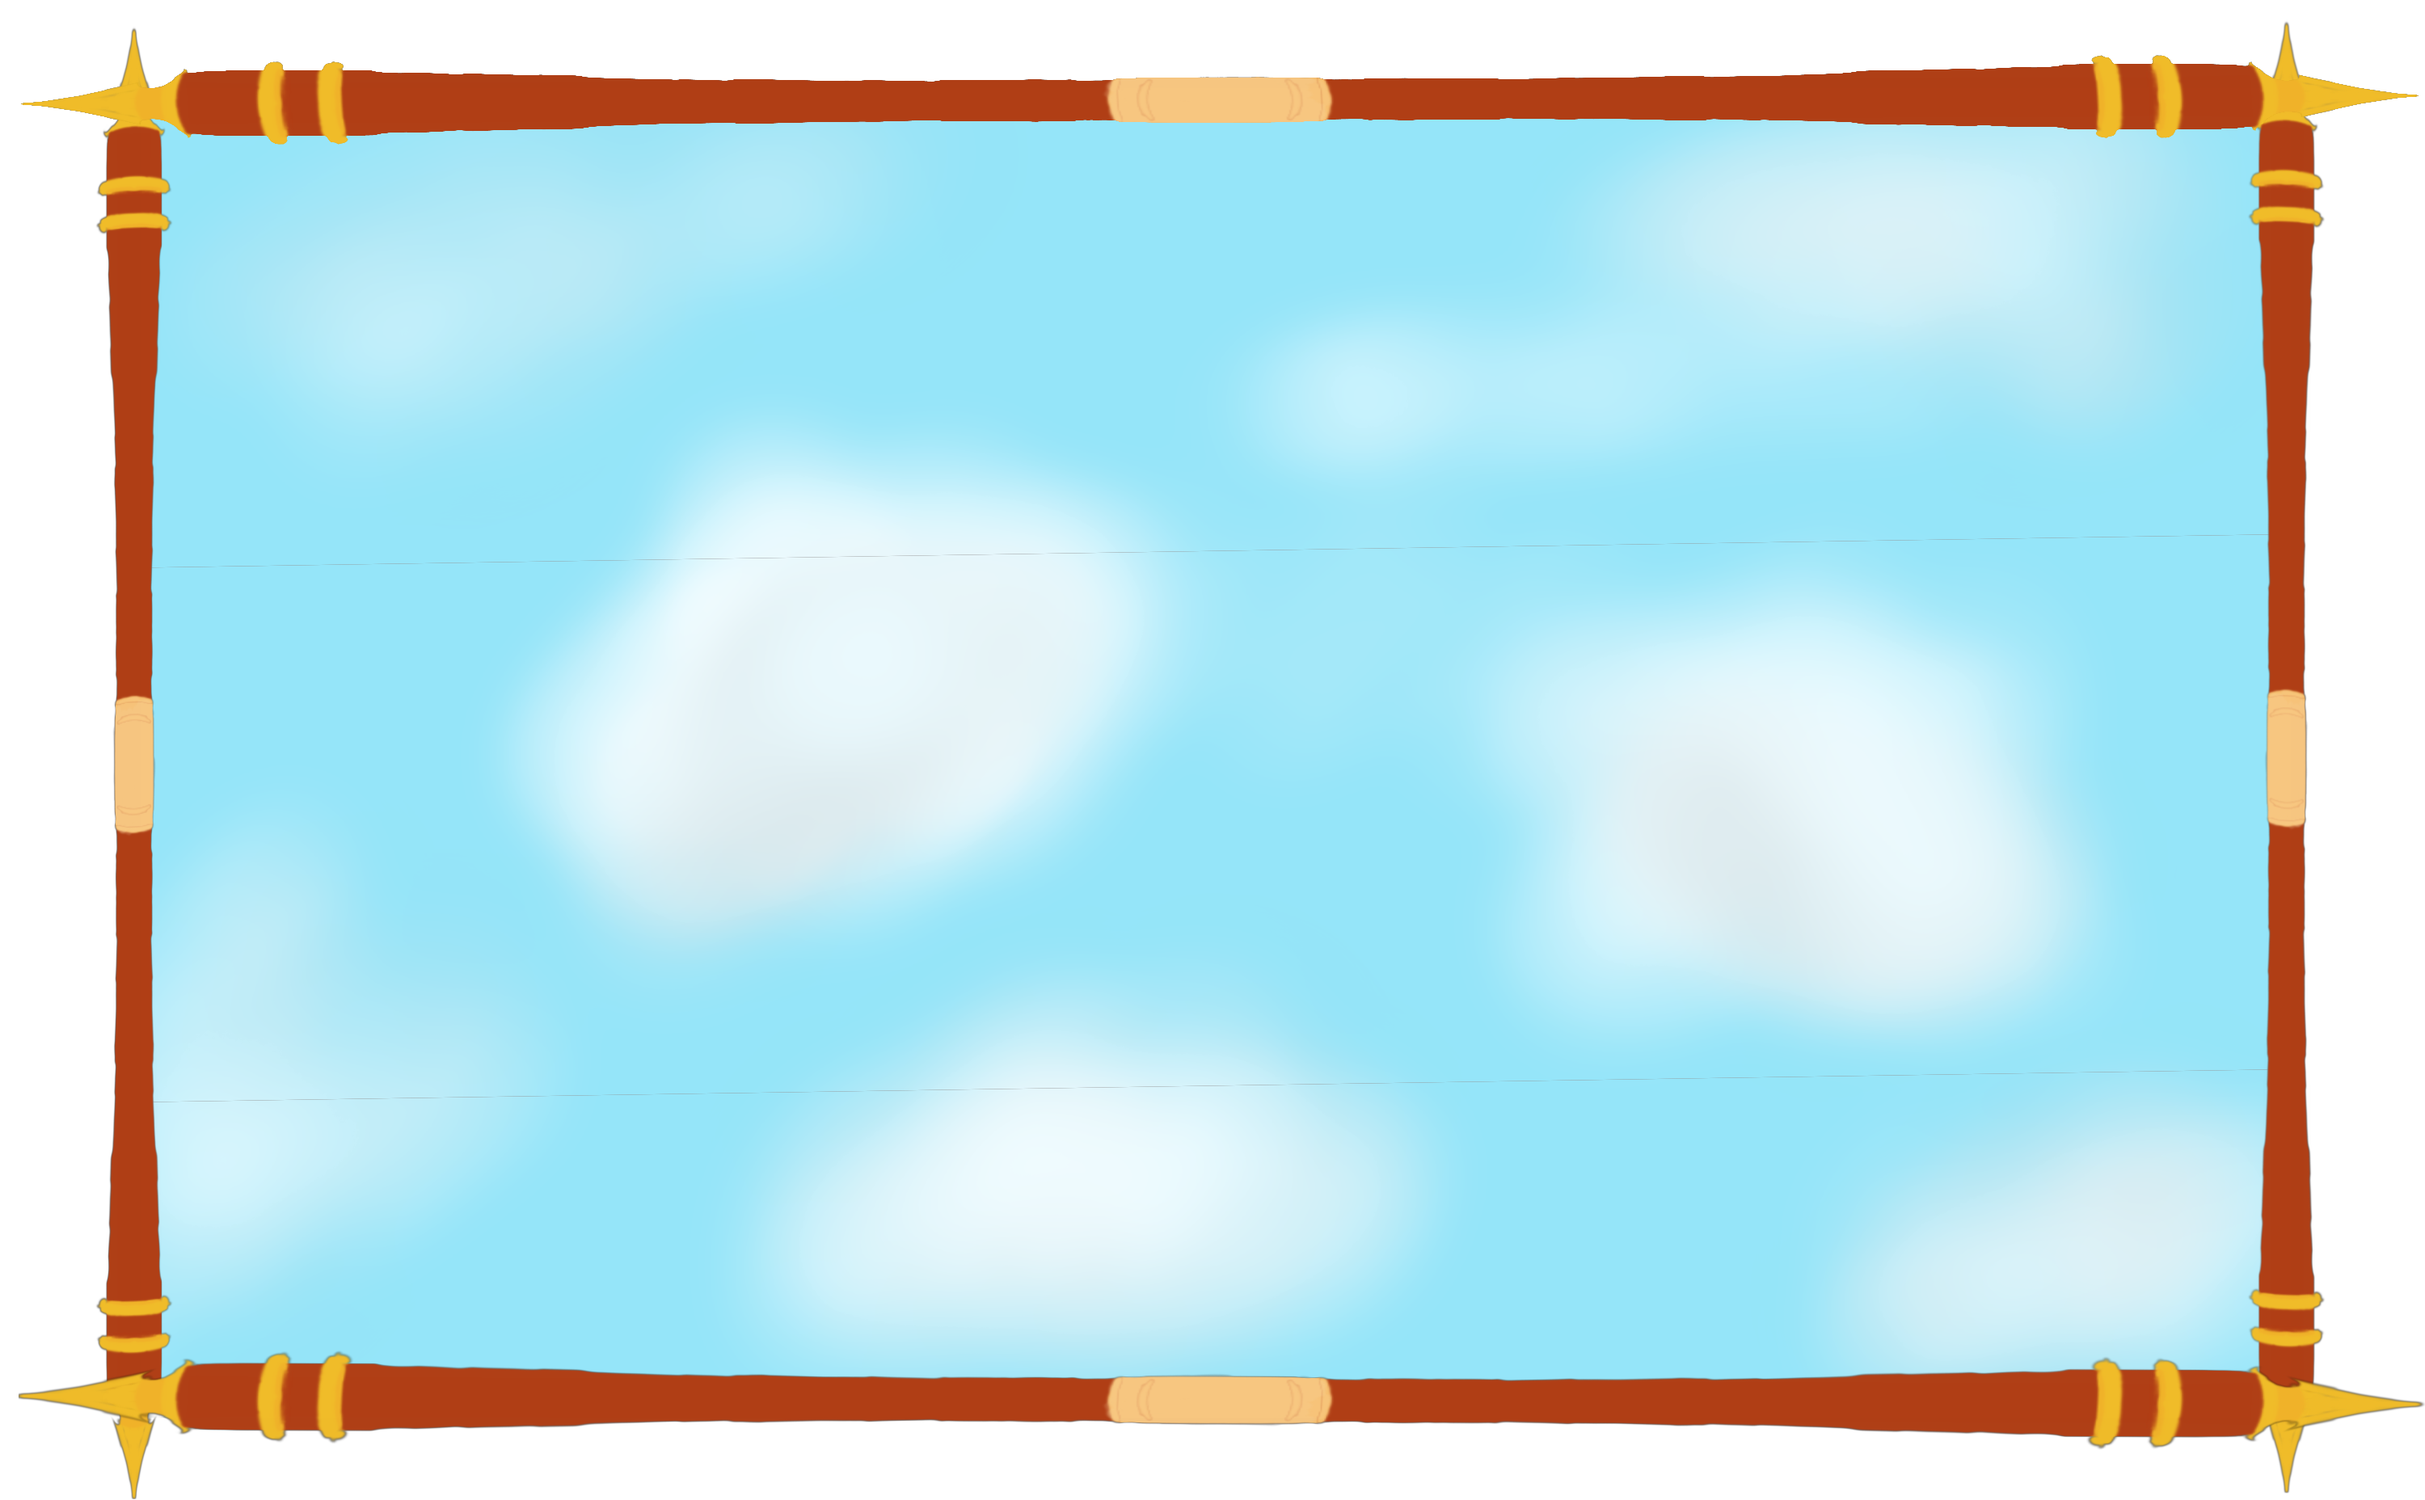
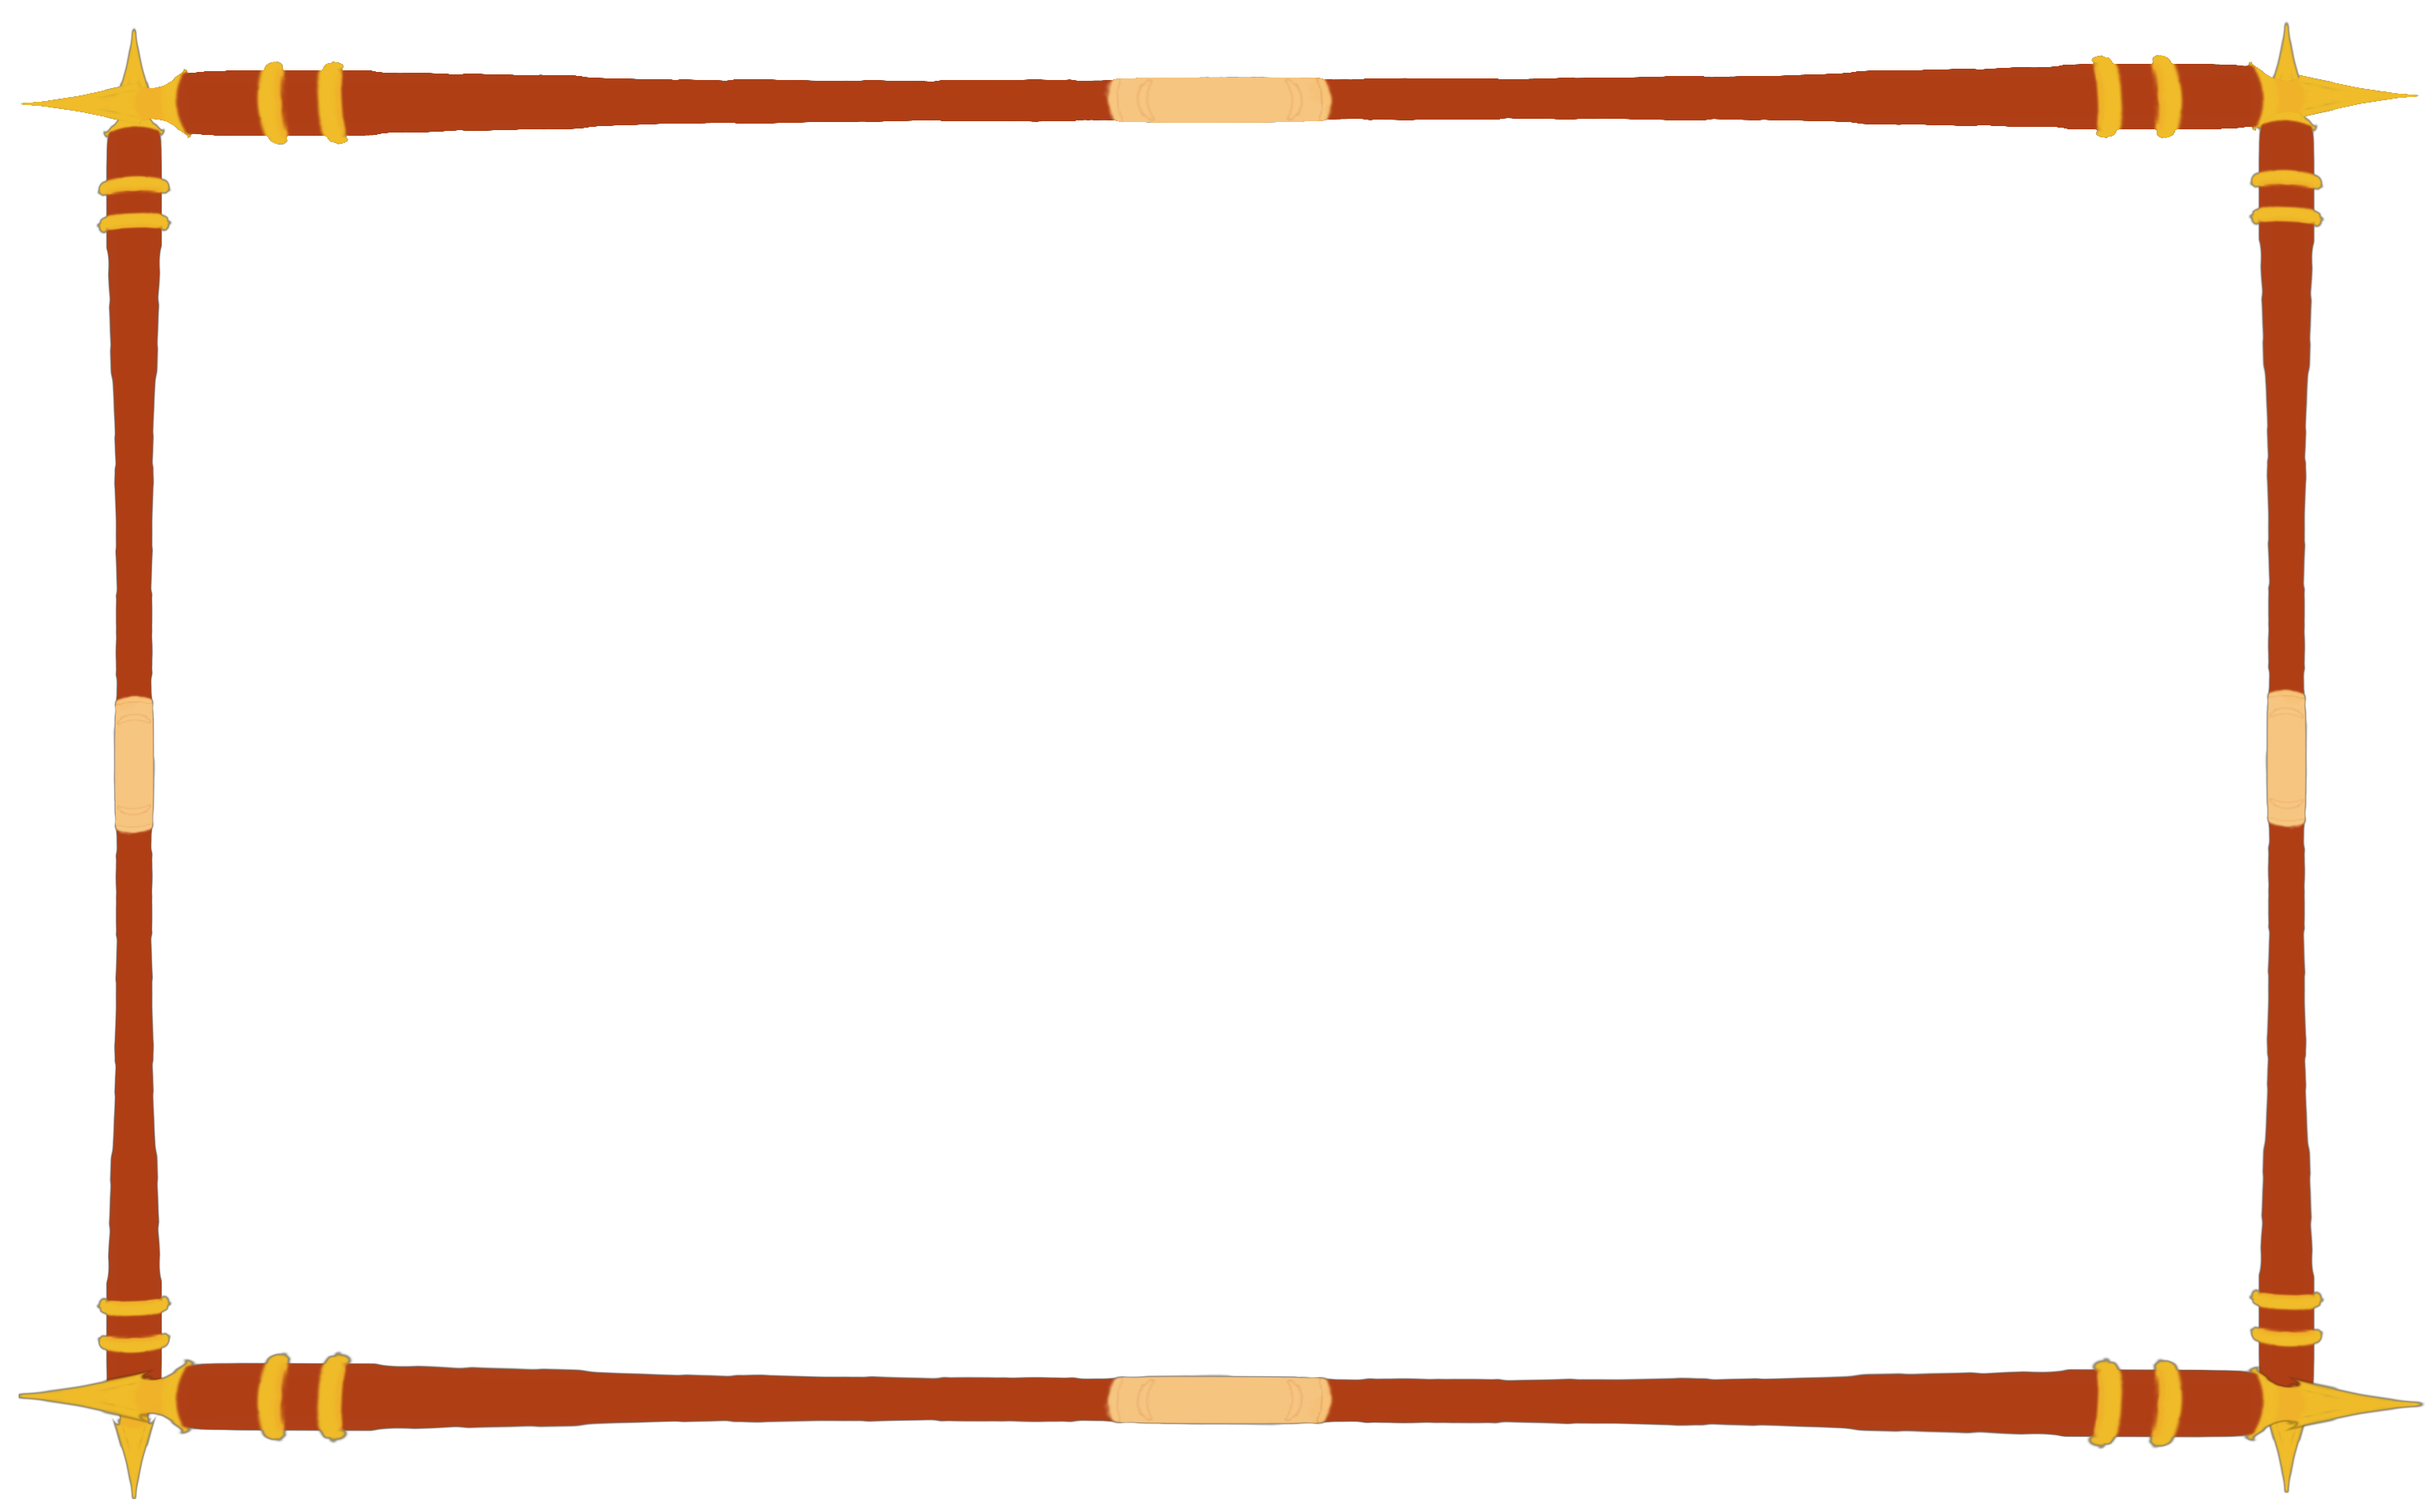
game screen now has staff border

diff --git a/Firebase/src/game.js b/Firebase/src/game.js
@@ -1,9 +1,10 @@
 window.onload = function() {
 
     var config = {
+        parent: "game-container",
         type: Phaser.AUTO,
-        width: 640,
-        height: 480,
+        width: 1200,
+        height: 700,
         bgColor: 0x000000,
         scene: [main, World11],
         pixelArt: true,
@@ -13,12 +14,6 @@ window.onload = function() {
                 gravity: { y: 700 },
                 debug: false
             }
-        },
-        scale: {
-            parent: "game",
-            top: 100,
-            width: 800, 
-            height: 600,
         },
         autoRound: false
     }

diff --git a/Firebase/src/style.css b/Firebase/src/style.css
@@ -18,6 +18,7 @@ canvas {
     top: 10px;
     display: inline-block;
 }
+
 #game-box{
     text-align: center;
     align-items: center;
@@ -27,9 +28,25 @@ canvas {
     display: inline-block;
 }
 
+#game-container{
+    position: absolute;
+    left: -4%;
+    top: 97.5%;
+    z-index: -1;
+}
+
 #bg-image{
     height: 100%;
     width: 90%; 
+}
+
+#bg-image-game{
+    position: absolute;
+    left: 5%;
+    top: 0.5%;
+    height: 90%;
+    width: 90%;
+    z-index: 1;
 }
 
 #back-arrow{

diff --git a/Firebase/src/scenes/MonkeyBusiness.html b/Firebase/src/scenes/MonkeyBusiness.html
@@ -29,10 +29,8 @@
   <body>
     <div id = "game-box">
       <img id = "logo" src = "../assets/Images/Logo.png">
-      <img id = "bg-image" src = "../assets/Backgrounds/GameWindow.png" style = "padding-top: 60px;">
-      <div id = "game">
-        
-      </div>
+      <div id = "game-container"></div>
+      <img id = "bg-image-game" src = "../assets/Backgrounds/GameWindow.png" style = "padding-top: 60px;">
     </div>
  </body>
 </html>
